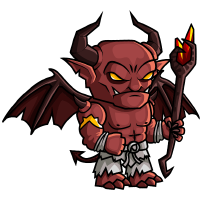
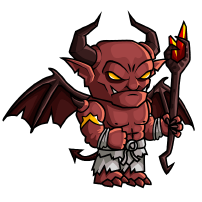
Give the flayer a real breath, and let a cycle say how it plays
Sixteen reference frames of one creature. Measured rather than eyeballed: a
Held-Karp pass over the pairwise pixel differences finds one smooth ten-frame
chain (steps of 17k to 75k differing pixels) and six frames that chain to
nothing at under 93k a step and sit 150k from the rest pose. The ten are a
breath. The six are attack keyframes, and the game has no pose to put them in.

So the ten are imported as flayer-idle-0..9, and two things the player used to
get wrong at that length are now worked out rather than declared:

  - PACE. Holding the frame duration constant meant holding the cycle duration
    proportional to frame count, and a ten-frame breath at the two-frame pace
    is seven and a half seconds long -- not a creature resting, a creature in
    a coma. The BREATH is what should be constant (~2.8s), so long cycles run
    faster and short ones keep exactly the 420ms they had.

  - DIRECTION. A breath is an open path: the body rises from one extreme to
    the other, and the wrap back to the start is a bigger jump than any step
    inside the chain -- measured here, 111k against a worst step of 75k. Played
    as a ring it snaps once a cycle, which is the most visible thing in the
    animation. Played there and back it breathes. A true cycle -- a guttering
    flame, a turning orb -- is a ring whose wrap is just another step, and
    reversing it would be wrong, so the two are told apart by that one
[…]

Changed region(s): [[0.0, 0.0297, 1.0, 0.9505], [0.3267, 0.3861, 0.3564, 0.4158]]

diff --git a/phaser/tools/pack-atlas.js b/phaser/tools/pack-atlas.js
@@ -136,6 +136,65 @@ for (const f of frames) {
   if (Math.abs(k - 1) > 0.001) frameScale[f.name] = +k.toFixed(4);
 }
 
+/* Does an idle cycle loop, or does it go there and come back?
+ *
+ * A breath is an OPEN PATH: the body rises from one extreme to the other, and
+ * the last frame is further from the first than any two neighbours are from
+ * each other. Played as a ring it snaps back at the wrap, once per cycle,
+ * which is the most visible thing in the animation. Played forwards then
+ * backwards it breathes.
+ *
+ * A true cycle -- a guttering flame, a turning orb -- is a RING: its wrap step
+ * is just another step, no bigger than the rest, and reversing it would be
+ * wrong. So the two are told apart by the one measurement that distinguishes
+ * them: whether the wrap is larger than the largest step inside the chain.
+ * 1.25x of it, for margin. Measured on the imported flayer breath: steps of
+ * 17k to 75k differing pixels, wrap of 111k -- an open path by a clear margin.
+ *
+ * Decided here rather than by whoever drops the files in, because this is the
+ * one place that has already decoded every frame and can simply look.
+ */
+const idleCycles = new Map();
+for (const f of frames) {
+  const m = /^(.*)-idle-(\d+)$/.exec(f.name);
+  if (!m) continue;
+  if (!idleCycles.has(m[1])) idleCycles.set(m[1], []);
+  idleCycles.get(m[1])[+m[2]] = f;
+}
+const pingpong = [];
+const cycleNote = [];
+for (const [base, list] of idleCycles) {
+  let n = 0;
+  while (list[n]) n++;                       // contiguous from zero, as drawn
+  if (n < 3) continue;                       // two frames alternate either way
+  const cut = list.slice(0, n);
+  if (cut.some(f => f.w !== cut[0].w || f.h !== cut[0].h)) continue;   // not comparable
+  const diff = (a, b) => {
+    let d = 0;
+    for (let k = 0; k < a.png.data.length; k += 4) {
+      if (Math.abs(a.png.data[k + 3] - b.png.data[k + 3]) > 16 ||
+          Math.abs(a.png.data[k] - b.png.data[k]) > 16 ||
+          Math.abs(a.png.data[k + 1] - b.png.data[k + 1]) > 16 ||
+          Math.abs(a.png.data[k + 2] - b.png.data[k + 2]) > 16) d++;
+    }
+    return d;
+  };
+  let worst = 0;
+  for (let i = 1; i < n; i++) worst = Math.max(worst, diff(cut[i - 1], cut[i]));
+  const wrap = diff(cut[n - 1], cut[0]);
+  const open = wrap > worst * 1.25;
+  if (open) pingpong.push(base);
+  // The ratio is printed, not just the verdict: this is one threshold standing
+  // between a breath and a twitch, and the margin narrows on small frames --
+  // the same flayer breath measures 1.48 at reference size and 1.33 once
+  // resampled down to 202px. A call near 1.25 is worth looking at.
+  cycleNote.push('    ' + base + '  ' + n + ' frames, ' +
+                 (open ? 'there and back' : 'looping') +
+                 '  (wrap/worst step = ' + (wrap / (worst || 1)).toFixed(2) +
+                 ', threshold 1.25)');
+}
+pingpong.sort();
+
 if (!frames.length) {
   console.error('no PNGs under ' + ART + ' — run `node tools/export-art.js` in the repo root first');
   process.exit(1);
@@ -185,6 +244,7 @@ if (fs.existsSync(man)) {
   // big an authored frame is meant to be drawn.
   m.frame_scale = frameScale;
   m.authored = frames.filter(f => f.authored).map(f => f.name).sort();
+  m.idle_pingpong = pingpong;
   fs.writeFileSync(path.join(OUT, 'manifest.json'), JSON.stringify(m, null, 2) + '\n');
 }
 
@@ -193,6 +253,10 @@ const authored = frames.filter(f => f.authored).length;
 console.log('atlas ' + size.w + 'x' + size.h + '  ' + frames.length + ' frames  ' +
             kb(fs.statSync(path.join(OUT, 'atlas.png')).size) +
             '   ' + authored + ' authored, ' + (frames.length - authored) + ' forged');
+if (cycleNote.length) {
+  console.log('\n  idle cycles:');
+  for (const c of cycleNote) console.log(c);
+}
 if (odd.length) {
   console.log('\n  these change shape, not just resolution — they will not sit ' +
               'where the forged frame sat:');

diff --git a/phaser/src/delve.js b/phaser/src/delve.js
@@ -28,16 +28,23 @@ const hex = (css, fallback) => {
 
 const SS = 2;      // art/ is exported at 2x, which is native for it
 
-/* How long one frame of an idle loop is held, in milliseconds.
+/* How fast an idle loop runs.
  *
  * Idle is the one cycle that CANNOT be driven by distance travelled the way
  * the gait is, because the whole point of it is a body that is not
- * travelling. So it runs off the clock, and this is the clock. 420ms is
- * roughly a slow breath over a two-frame loop; a longer authored loop gets
- * proportionally slower rather than faster, which is the right way round --
- * more frames should read as more detail, not more haste.
+ * travelling. So it runs off the clock, and this is the clock.
+ *
+ * What is held constant is the length of the BREATH, not the length of a
+ * frame: a ten-frame breath at a two-frame breath's pace takes seven and a
+ * half seconds, which is not a creature resting, it is a creature in a coma.
+ * So a longer cycle runs proportionally faster and lands near IDLE_CYCLE_MS
+ * either way -- more frames buy smoothness, not duration.
+ *
+ * Clamped at both ends. IDLE_MAX_MS is the old fixed value, so every short
+ * cycle keeps exactly the pace it already had; IDLE_MIN_MS stops a very long
+ * cycle from turning a breath into a shiver.
  */
-const IDLE_MS = 420;
+const IDLE_CYCLE_MS = 2800, IDLE_MIN_MS = 110, IDLE_MAX_MS = 420;
 
 /* The adaptive-effects thresholds, in milliseconds of WORK per frame. The
  * canvas build's numbers, kept: above FX_DROP a frame cannot hold 60Hz, below
@@ -128,7 +135,7 @@ export class Delve extends Phaser.Scene {
       this.man = {};
     }
     this.frameScale = this.man.frame_scale || {};
-    this.buildIdleTable();
+    this.buildIdleTable(this.man.idle_pingpong || []);
 
     this.cameras.main.setBackgroundColor(PAL.floor || '#1a1512');
     this.cameras.main.setBounds(0, 0, WORLD.w, WORLD.h);
@@ -495,8 +502,11 @@ export class Delve extends Phaser.Scene {
    * tail of the animation, not leave a body wearing whatever it happened to
    * be wearing when the frame lookup failed.
    */
-  buildIdleTable() {
+  buildIdleTable(pingpong) {
     this.idleN = Object.create(null);
+    // Which cycles go there and back rather than round: measured by the packer,
+    // which is the one place that has every frame's pixels in hand.
+    this.idlePong = new Set(pingpong);
     const tex = this.textures.get('art');
     const names = (tex && tex.getFrameNames) ? tex.getFrameNames() : [];
     const seen = Object.create(null);
@@ -537,9 +547,15 @@ export class Delve extends Phaser.Scene {
   idleFrame(base, e, time) {
     const n = this.idleN && this.idleN[base];
     if (!n) return base + '-rest';
-    if (e.idlePhase === undefined) e.idlePhase = Math.random() * n * IDLE_MS;
+    // A there-and-back cycle of n frames is 2n-2 steps long: out to the far
+    // end and home again without playing either end twice.
+    const pong = n > 2 && this.idlePong.has(base);
+    const period = pong ? 2 * n - 2 : n;
+    const ms = Math.min(IDLE_MAX_MS, Math.max(IDLE_MIN_MS, IDLE_CYCLE_MS / period));
+    if (e.idlePhase === undefined) e.idlePhase = Math.random() * period * ms;
     const t = (time === undefined ? this.time.now : time) + e.idlePhase;
-    return base + '-idle-' + (((t / IDLE_MS) | 0) % n);
+    const i = ((t / ms) | 0) % period;
+    return base + '-idle-' + (i < n ? i : period - i);
   }
 
   /* Which frame a body wears. The canvas build's bodyFrame/heroFrame, reading

diff --git a/art/STYLE.md b/art/STYLE.md
@@ -70,20 +70,41 @@ different in the loop so a pack does not breathe in unison. A kind with no
 idle frames still holds its one rest pose, exactly as before, so this arrives
 one creature at a time.
 
-Five kinds have a two-frame idle imported from reference art. Everything else
-is still a frozen frame, and that is still the single biggest reason the scene
-reads as static.
+The flayer has a ten-frame breath; four other kinds have a two-frame pulse.
+Everything else is still a frozen frame, and that is still the single biggest
+reason the scene reads as static.
+
+Two things the cycle player works out for itself, so nothing has to be
+declared:
+
+- **How fast to run.** What is held constant is the length of the breath
+  (~2.8s), not the length of a frame. A ten-frame cycle at a two-frame cycle's
+  pace would take seven and a half seconds — not a creature resting, a creature
+  in a coma. Short cycles keep the old 420ms a frame; long ones speed up.
+- **Whether to loop or to go there and back.** A breath is an open path: the
+  body rises from one extreme to the other, and playing it as a ring snaps
+  back once a cycle. A true cycle — a guttering flame, a turning orb — is a
+  ring, and reversing it would be wrong. The packer tells them apart by
+  measuring whether the wrap is bigger than the largest step inside the chain,
+  and prints the ratio it used every time it runs.
 
 What would fix the rest, roughly in order of value for effort:
 
-1. **Longer idle cycles, and idles for the other six kinds.** 4–6 frames of
-   breathing, weight shift, a hood stirring. Two frames reads as a pulse; four
-   reads as breath. `thrall`, `breaker`, `gorger`, `lieutenant`, `mirage`,
-   `deceiver` have none at all, and neither hero does.
+1. **Idles for the other six kinds, and longer ones for the four on two
+   frames.** 4–6 frames of breathing, weight shift, a hood stirring. Two
+   frames reads as a pulse; ten reads as breath — the flayer is the proof.
+   `thrall`, `breaker`, `gorger`, `lieutenant`, `mirage`, `deceiver` have none
+   at all, and neither hero does.
 2. **Secondary motion in the run.** Capes, hems, chains and hair that lag
    behind the body. The current run cycles move the whole figure rigidly.
 3. **A hit pose.** Bodies currently flash white when struck. A one-frame
    recoil reads far better.
+3b. **A cast or strike pose.** There is no frame for a body attacking: it
+   plays its walk or its idle and the blow simply lands. The core already
+   knows — `casting` on the cantor, `chanting` on the shaman, `run` on the
+   flayer — so the state is there to hang art on, and only the art is
+   missing. This is the one place where authored frames currently exist with
+   nowhere to go.
 4. **Death frames.** Bodies presently just stop being drawn.
 
 ## The palette
